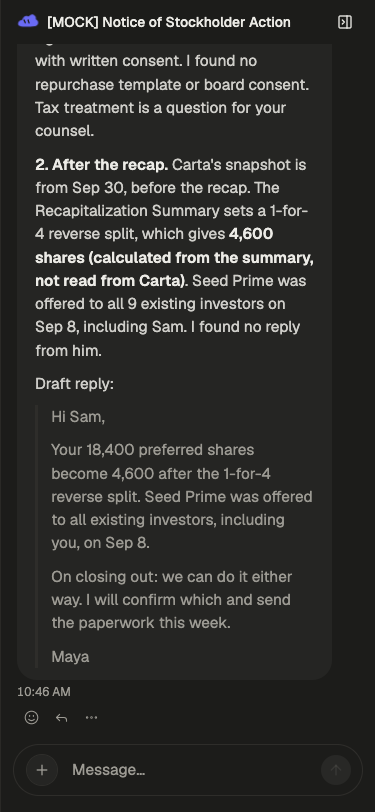
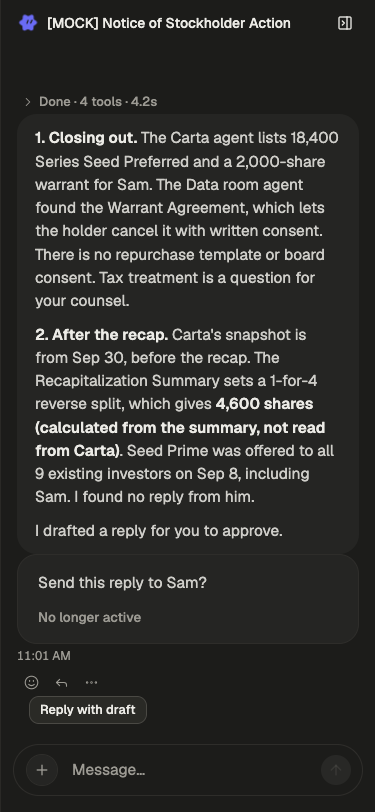
feat(inbox): keep the answer start in view, answer cards from the panel, update the walkthrough
The panel moves the newest answer to its start after opening or a run, answers approval cards, and the README and screenshots show dark and light themes.

diff --git a/apps/web/src/components/inbox/EmailAgentPanel.tsx b/apps/web/src/components/inbox/EmailAgentPanel.tsx
@@ -1,6 +1,6 @@
 import { Trans, useLingui } from "@lingui/react/macro";
 import type { Bot, ThreadMessage, ThreadSnapshot } from "@rakazo/contracts";
-import { newClientId } from "@rakazo/core";
+import { latestAnswerableAskMessageId, newClientId } from "@rakazo/core";
 import { BotAvatar, Button } from "@rakazo/ui-web";
 import { PanelRightClose } from "lucide-react";
 import { useCallback, useEffect, useRef, useState } from "react";
@@ -53,13 +53,9 @@ export function EmailAgentPanel({
   const navigate = useNavigate();
   const [snapshot, setSnapshot] = useState<ThreadSnapshot | null>(null);
   const [sendError, setSendError] = useState<string | null>(null);
-  const [scrollRequest, setScrollRequest] = useState<{ messageId: string; nonce: number } | null>(
-    null,
-  );
   const scrollRef = useRef<HTMLDivElement>(null);
   const sentHere = useRef(false);
   const fileInputRef = useRef<HTMLInputElement>(null);
-  const jumps = useRef(0);
   const load = useCallback(
     () => rpc.threads.get({ botId: bot.id }).then(setSnapshot, () => undefined),
     [bot.id],
@@ -76,8 +72,9 @@ export function EmailAgentPanel({
     return () => clearInterval(timer);
   }, [running, load]);
 
-  // Show the newest answer from its start, on opening and when a run ends, so its top is not
-  // pushed out of view by the tail-follow.
+  // Show the newest answer from its start, on opening and when a run ends. The Transcript follows
+  // the tail of a chat, which would hide the top of a long answer, so this moves the view once the
+  // answer has been laid out.
   const lastBotId = [...(snapshot?.messages ?? [])].reverse().find((m) => m.role === "bot")?.id;
   const shown = useRef<{ id?: string; running: boolean }>({ running: false });
   useEffect(() => {
@@ -85,11 +82,22 @@ export function EmailAgentPanel({
       shown.current.running = running;
       return;
     }
-    if (lastBotId && (shown.current.id !== lastBotId || shown.current.running)) {
-      jumps.current += 1;
-      setScrollRequest({ messageId: lastBotId, nonce: jumps.current });
-    }
+    const wanted = lastBotId && (shown.current.id !== lastBotId || shown.current.running);
     shown.current = { id: lastBotId, running: false };
+    if (!wanted) return;
+    // No cleanup: a later snapshot must not cancel the move, and the callback checks the refs. It
+    // runs twice because a slow layout can finish after the first.
+    for (const delay of [300, 1_200]) {
+      window.setTimeout(() => {
+        const scroller = scrollRef.current;
+        const row = scroller?.querySelector<HTMLElement>(
+          `[data-message-id="${CSS.escape(lastBotId)}"]`,
+        );
+        if (!scroller || !row) return;
+        const gap = row.getBoundingClientRect().top - scroller.getBoundingClientRect().top;
+        scroller.scrollTop += gap - 8;
+      }, delay);
+    }
   }, [snapshot, running, lastBotId]);
 
   const draft = latestPendingDraft(snapshot?.messages ?? []);
@@ -122,20 +130,30 @@ export function EmailAgentPanel({
           <Transcript
             scrollRef={scrollRef}
             sentHere={sentHere}
-            scrollRequest={scrollRequest}
-            onScrollRequestHandled={() => setScrollRequest(null)}
+            scrollRequest={null}
+            onScrollRequestHandled={noop}
             artifactTarget={artifactTarget}
             messages={snapshot.messages}
             // The lookups are the point of this panel, so they show whatever the chat setting says.
             showToolActivity
             olderCursor={snapshot.olderCursor}
             loadingOlder={false}
-            answerableAskMessageId={null}
+            answerableAskMessageId={latestAnswerableAskMessageId(snapshot)}
             running={running}
             workingBots={[]}
             onLoadOlder={asyncNoop}
             onOpenBot={noop}
-            onAnswer={asyncNoop}
+            onAnswer={async (message, text, username, mail) => {
+              await rpc.threads.answer({
+                botId: bot.id,
+                runId: message.runId ?? "",
+                messageId: message.id,
+                answer: text,
+                ...(username ? { username } : {}),
+                ...(mail ? { mail } : {}),
+              });
+              await load();
+            }}
             onReply={noop}
             onQuote={noop}
             onReact={asyncNoop}
@@ -155,7 +173,7 @@ export function EmailAgentPanel({
         <div className="min-h-0 flex-1" />
       )}
       {draft ? (
-        <div className="shrink-0 px-4 pb-2">
+        <div className="shrink-0 px-7 pb-2">
           <Button variant="outline" size="sm" onClick={() => onReplyWithDraft(draft)}>
             <Trans>Reply with draft</Trans>
           </Button>

diff --git a/apps/web/src/pages/shell/transcript.tsx b/apps/web/src/pages/shell/transcript.tsx
@@ -450,11 +450,7 @@ export const Transcript = memo(function Transcript({
     window.clearTimeout(jumpScrollTimer.current);
     jumpScrollTimer.current = window.setTimeout(endJumpScroll, 2_000);
     const reducedMotion = window.matchMedia("(prefers-reduced-motion: reduce)").matches;
-    // A message taller than the view is shown from its start, not its middle.
-    row.scrollIntoView({
-      behavior: reducedMotion ? "auto" : "smooth",
-      block: row.getBoundingClientRect().height > element.clientHeight ? "start" : "center",
-    });
+    row.scrollIntoView({ behavior: reducedMotion ? "auto" : "smooth", block: "center" });
     row.animate(
       reducedMotion
         ? [{ backgroundColor: "var(--muted)" }, { backgroundColor: "var(--muted)" }]

diff --git a/apps/web/src/components/inbox/EmailAgentPanel.test.tsx b/apps/web/src/components/inbox/EmailAgentPanel.test.tsx
@@ -21,7 +21,9 @@ vi.mock("../../pages/shell/composer", () => ({ Composer: () => <div data-testid=
 const get = vi.fn();
 const navigate = vi.fn();
 vi.mock("../../lib/rpc", () => ({
-  rpc: { threads: { get: (input: unknown) => get(input), send: vi.fn(), stop: vi.fn() } },
+  rpc: {
+    threads: { get: (input: unknown) => get(input), send: vi.fn(), stop: vi.fn(), answer: vi.fn() },
+  },
 }));
 
 import { EmailAgentPanel, latestPendingDraft } from "./EmailAgentPanel";

diff --git a/docs/email-assist/README.md b/docs/email-assist/README.md
@@ -1,43 +1,39 @@
-# Email agent panel (prototype)
+# Email agent panel
 
-A working prototype in the real app, not a merge candidate. Screenshots are from the demo stack (`pnpm demo:up`) in the default dark theme, with invented Northwind data.
+Ask agent on an open email opens that email's own agent in a panel inside the message dialog. Screenshots are from the demo stack (`pnpm demo:up`) with invented Northwind data, in dark and light themes.
 
 ## Problem
 
 Replying to an investor often needs facts from Carta, the data room and past mail. The founder searches each one by hand before answering.
 
-## What the prototype does
+## Flow
 
-1. Open an email in the Inbox. The dialog is as it is today (`email-closed-d.png`, phone `email-closed-m.png`).
-2. Ask agent opens that email's own agent in a panel inside the dialog, which widens to hold it (`panel-ready-d.png`). It is the same per-thread agent `inbox.askAgent` finds or creates today. The close button collapses the panel. On a phone the panel fills the screen, as the Shell's side panel does (`panel-ready-m.png`).
-3. The panel is the Shell's docked page-agent chat: the same header, `Transcript` and `Composer`. The seeded chat shows the thread card, the lookups as the usual collapsed tool activity (`panel-lookups-d.png`), and an answer that flags a calculated figure and a gap, followed by a draft reply.
-4. `compare-inbox-agent-d.png` is the Inbox page's own agent chat in the same session, for comparison.
+1. Open an email in the Inbox (`email-closed-d.png`, phone `email-closed-m.png`).
+2. Ask agent opens the email's agent in a panel that widens the dialog (`panel-ready-d.png`, light `panel-ready-light-d.png`). It is the per-thread agent `inbox.askAgent` finds or creates. On a phone the panel fills the screen (`panel-ready-m.png`, `panel-ready-light-m.png`). The close button collapses it, and the agent's name opens the full chat. Nothing runs until Ask agent is clicked.
+3. The panel is the Shell's page-agent chat: header, `Transcript`, `Composer`. It opens with the start of the newest answer in view, and does the same when a run finishes. The lookups sit in the usual collapsed tool activity (`panel-lookups-d.png`). `compare-inbox-agent-d.png` is the Inbox page's own agent chat, for comparison.
+4. The agent writes a reply with `mail_send`, which shows as the usual mail card for the owner to approve. When such a card is waiting, "Reply with draft" appears above the composer and opens the normal Reply composer with the card's body above the quoted original (`reply-with-draft-d.png`, `reply-with-draft-light-d.png`). The owner edits and sends through the normal send flow; nothing is sent by the panel.
 
-The agent starts only when Ask agent is clicked. The demo's chat is pre-written, so no model runs.
+## Permissions
 
-## What is new code
+The email agent has the Inbox agent's mail permissions, through one predicate, `isMailAgentSpawnKey` (Inbox agent or email agent): no connector tools, access to every Gmail account, and `mail_send` always asks for approval whatever the saved rules say. It has no Carta, Finance or Data room tools. Its instructions tell it to ask those agents with `message_bot`.
 
-- `apps/web/src/components/inbox/EmailAgentPanel.tsx`: loads the thread with `threads.get`, polls while a run is active, sends with `threads.send`, and renders the Shell's header, `Transcript` and `Composer`. The Shell does this with an event subscription inside a 6,800-line component, so the panel repeats the minimum.
-- `InboxMessageDialog`: a new `onAskAgentPanel` prop and the panel slot beside the message. `Inbox.tsx` passes it in place of `onAskAgent` (which still opens the full chat for other callers).
-- Demo seed: the Sam Ortiz thread and its pre-written agent chat (`packages/testkit/src/cli/demo`).
+Not shared with the Inbox agent, on purpose: being the owner other agents ask for mail, the Inbox page's notifications, the sidebar folder, and the one-Inbox-agent-per-user rules.
+
+## Decisions
+
+- The draft is the agent's pending `mail_send` card, not parsed text and not a Gmail draft. The agent already writes replies that way, and the card carries recipients, subject and body.
+- The panel polls the thread every 2.5 seconds while a run is active, and stops when the run ends or the panel closes. The Shell's event subscription is part of its 6,800-line state and cannot be reused without a large refactor.
+- Tool steps show in this panel whatever the chat's tool-activity setting says.
 
 ## Not done
 
-- "Reply with draft". The draft is text in the agent's answer. Dropping it into the composer would need `inbox.compose.prefill` to accept the agent's draft body.
-- Live updates: the panel polls instead of using the Shell's thread subscription.
-- Tool steps always show in this panel, whatever the chat's tool-activity setting says.
-- Very long tool-step summaries make a bubble wider than a narrow panel (a `Transcript` behaviour); the seed keeps them short.
-
-## What each lookup uses
-
-- Email thread: `mail_get`.
-- Holdings: Carta read tools (`fetch`) or the saved Cap Table snapshot (holder, security, shares, as-of date). Current holdings only.
-- Documents: `search_data_room`, `read_data_room_item`.
-- Past mail: `mail_search`, `mail_grep`, `mail_get`.
-- The post-recap share count is calculated from the recap document, not read from Carta, and the answer says so.
+- The demo's agent chat is pre-written, and its mail card shows "No longer active" because no run is waiting on it. A live run was not tested (the demo has no model key).
+- A reply already started for the same email wins over the draft: the composer reopens the unsent reply.
+- After the owner sends from the composer, the agent's card stays pending until it is discarded.
+- Agents created before this change keep their old instructions, so they are not told to use `message_bot` for Carta and Data room facts.
 
 ## Open questions
 
 - Should Ask agent offer the panel on every email, or only when the email asks a question?
 - Can Carta return holdings before and after a recap? Unverified until sign-in.
-- Should the panel replace the full-chat route from the dialog, or sit beside it?
+- Should Inbox agent also lose its Data room tools? It has them today; the email agent does not.
